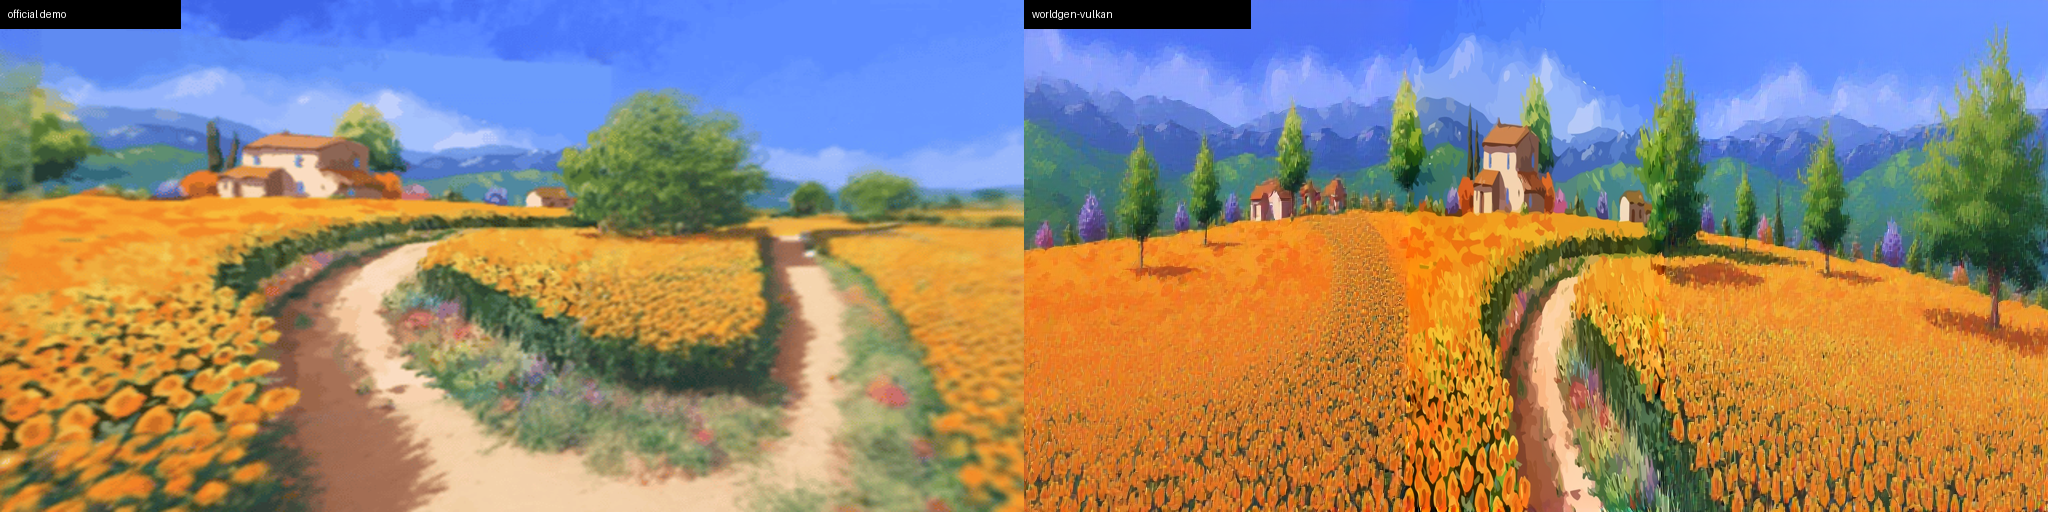
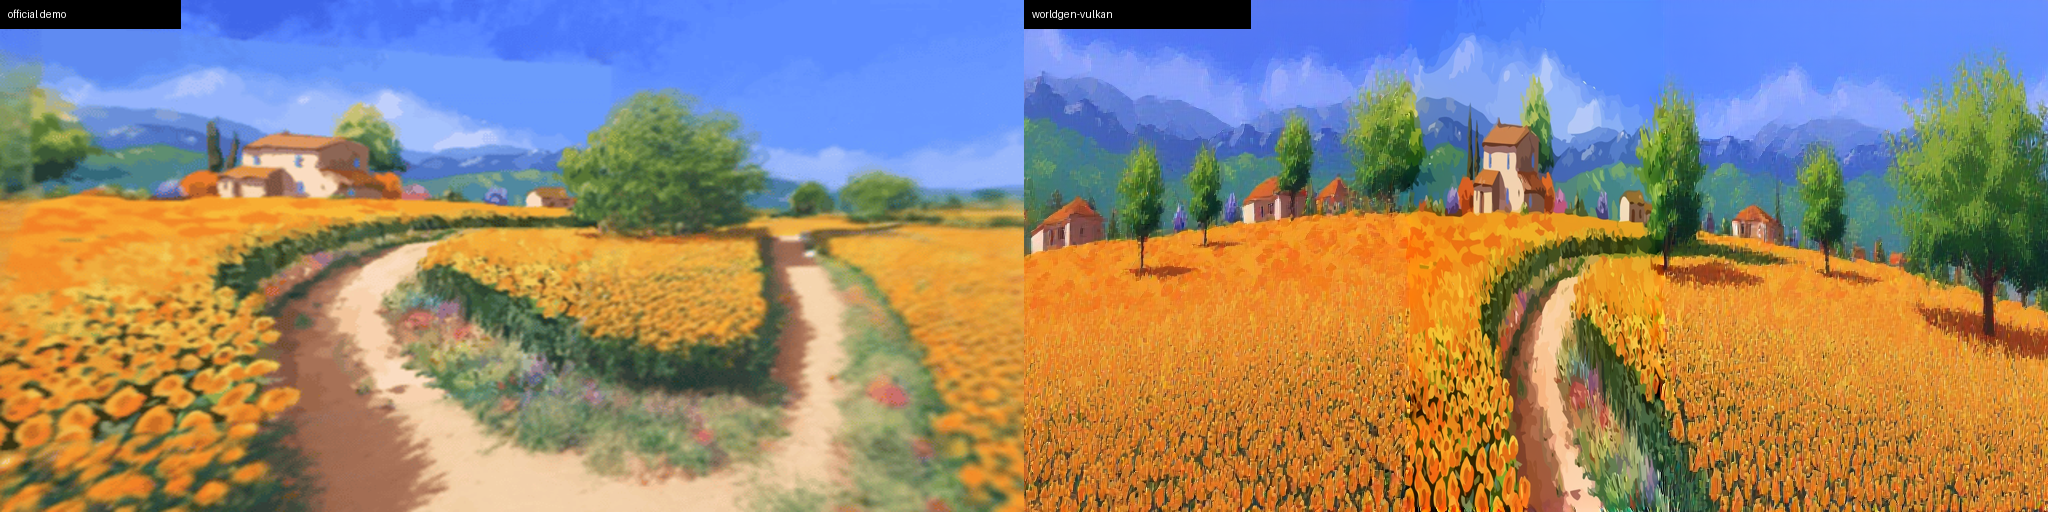
WorldGen: clean foreground before Fill to reduce object repetition

diff --git a/worldgen/worldgen/worldgen_i2s_prep.py b/worldgen/worldgen/worldgen_i2s_prep.py
@@ -20,15 +20,35 @@ def main():
     pw = W // 4
     x0 = (W - pw) // 2
 
-    img = ImageOps.fit(
-        Image.open(args.image).convert("RGB"), (pw, H), method=Image.LANCZOS
-    )
+    src = Image.open(args.image).convert("RGB")
+    img = ImageOps.fit(src, (pw, H), method=Image.LANCZOS)
     cond = Image.new("RGB", (W, H), (0, 0, 0))
     cond.paste(img, (x0, 0))
     mask = Image.new("L", (W, H), 255)
     mask.paste(0, (x0, 0, x0 + pw, H))
     cond.save(out / "cond.png")
     mask.save(out / "mask.png")
+
+    try:
+        import cv2
+        import numpy as np
+
+        im = np.asarray(src)[:, :, ::-1].copy()
+        h, w = im.shape[:2]
+        gc = np.zeros((h, w), np.uint8)
+        rect = (int(w * 0.25), int(h * 0.1), int(w * 0.5), int(h * 0.8))
+        bgd = np.zeros((1, 65), np.float64)
+        fgd = np.zeros((1, 65), np.float64)
+        cv2.grabCut(im, gc, rect, bgd, fgd, 5, cv2.GC_INIT_WITH_RECT)
+        fg = np.where((gc == 1) | (gc == 3), 255, 0).astype(np.uint8)
+        band = cv2.resize(im, (pw, H))
+        fg = cv2.resize(fg, (pw, H), interpolation=cv2.INTER_NEAREST)
+        clean = cv2.inpaint(band, fg, 5, cv2.INPAINT_TELEA)
+        cond_clean = Image.new("RGB", (W, H), (0, 0, 0))
+        cond_clean.paste(Image.fromarray(clean[:, :, ::-1]), (x0, 0))
+        cond_clean.save(out / "cond_clean.png")
+    except Exception:
+        cond.save(out / "cond_clean.png")
     print("cond", cond.size, "mask", mask.size, flush=True)
 
 

diff --git a/worldgen/worldgen/worldgen_i2s.py b/worldgen/worldgen/worldgen_i2s.py
@@ -67,6 +67,7 @@ def main():
     ap.add_argument("--seed", type=int, default=42)
     ap.add_argument("--gguf", default=str(MODELS / "flux-fill/flux-fill-official-q4.gguf"))
     ap.add_argument("--inpaint-bg", action="store_true")
+    ap.add_argument("--keep-fg", action="store_true")
     args = ap.parse_args()
 
     out = Path(args.out)
@@ -90,7 +91,7 @@ def main():
         "--vae", str(FLUX / "ae.safetensors"),
         "--clip_l", str(FLUX / "clip_l.safetensors"),
         "--t5xxl", str(FLUX / "t5xxl_fp8_e4m3fn.safetensors"),
-        "-i", str(prep / "cond.png"),
+        "-i", str(prep / ("cond.png" if args.keep_fg or not (prep / "cond_clean.png").exists() else "cond_clean.png")),
         "--mask", str(prep / "mask.png"),
         "-p", prompt,
         "-n", "blurry, low quality",

diff --git a/worldgen/README.md b/worldgen/README.md
@@ -118,6 +118,7 @@ py -3 worldgen\worldgen_i2s.py `
   --prompt "a lush rainforest with gorillas" `
   --out output\rainforest --width 1024 --height 512 --steps 20
 # 可选：--inpaint-bg（GrabCut + OpenCV 背景 + splat merge）
+# 可选：--keep-fg（保留前景物体参与 Fill；默认会先清掉前景，减少重复对象）
 ```
 
 输出：
@@ -157,8 +158,8 @@ demo uses the full PyTorch pipeline and a different prompt/seed.
 
 ## 限制
 
-- Fill 会重复物体，竖带边界可见，mesh 有拉伸
-- 默认只验证 1024x512；1600x800 需重新 trace DA-2 或接受 resample
+- 默认先清前景再 Fill，重复物体大幅减少；仍可能有残留、竖带边界和 mesh 拉伸
+- 1600x800 已支持原生 DA-2 trace，但只验证了 10 steps
 - `use_sharp=True` 未接（需要 SHARP 模型和单独移植）
 - `inpaint_bg` 是简化实现：GrabCut 前景 + OpenCV Telea 背景 + DA-2 + splat merge，
   不是官方 OneFormer + FLUX Fill 版本

diff --git a/worldgen/docs/VALIDATION.md b/worldgen/docs/VALIDATION.md
@@ -75,6 +75,16 @@ DA-2 native 1600x800 trace:
 full 50 steps: roughly 1 hour on this GPU
 ```
 
+### Fill foreground cleaning
+
+By default `worldgen_i2s_prep.py` writes `cond_clean.png`: GrabCut foreground
+is removed from the Fill condition with OpenCV inpaint, while the original
+band (`cond.png`) is composited back after Fill. This stops Fill from repeating
+the foreground object on both sides. Use `--keep-fg` to disable.
+
+The official painting demo now produces a clean panorama with the house once
+(no duplicated foreground) and no visible band edge.
+
 ### inpaint_bg (simplified)
 
 `worldgen_i2s.py --inpaint-bg`:
